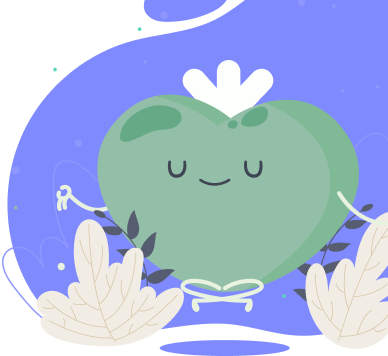
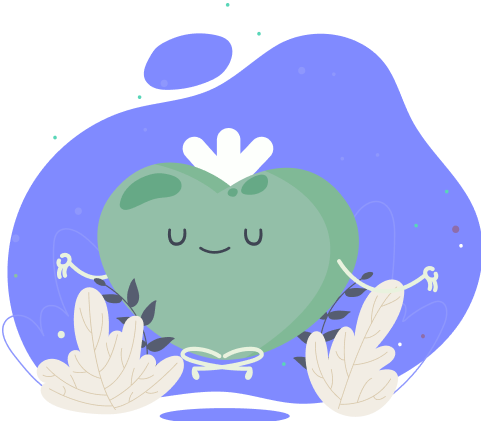
fix: 🐛 Fix cardcourse image size

diff --git a/components/Card/styles.js b/components/Card/styles.js
@@ -29,18 +29,20 @@ export default StyleSheet.create({
   },
   cardCourseContainerStyle: {
     width: scaleX * 177,
-    height: 177,
     borderRadius: 10,
     overflow: 'hidden',
     justifyContent: 'space-between',
   },
   cardCourseImageStyle: {
     position: 'absolute',
-    top: 0,
+    top: scaleY * -10,
     right: scaleX * -20,
+    width: scaleX * 160,
+    height: scaleY * 110,
   },
   cardCourseHeaderContainerStyle: {
     marginTop: 85,
+    marginBottom: scaleY * 35,
     paddingHorizontal: scaleX * 15,
   },
   cardCourseFooterContainerStyle: {

diff --git a/screens/HomeScreen/index.js b/screens/HomeScreen/index.js
@@ -16,8 +16,6 @@ const HomeScreen = (props) => {
       backgroundColor: 'accent',
       fontColor: 'secondaryForeground',
       buttonFontColor: 'black',
-      imageWidth: 120,
-      imageHeight: 105,
     },
     {
       title: 'Relaxation',
@@ -27,8 +25,6 @@ const HomeScreen = (props) => {
       backgroundColor: 'lightSalmon',
       fontColor: 'black',
       buttonFontColor: 'white',
-      imageWidth: 200,
-      imageHeight: 200,
     },
     {
       title: 'Daily Thought',

diff --git a/components/Card/index.js b/components/Card/index.js
@@ -76,12 +76,10 @@ const CardCourse = ({ card, onPress, style }) => (
   >
     <Image
       source={card.icon}
-      style={[
-        styles.cardCourseImageStyle,
-        { width: scaleX * card.imageWidth, height: scaleY * card.imageHeight },
-      ]}
+      style={styles.cardCourseImageStyle}
       resizeMode="contain"
     />
+
     <View style={styles.cardCourseHeaderContainerStyle}>
       <Text size="sz18" weight="heavy" color={card.fontColor}>
         {card.title}
